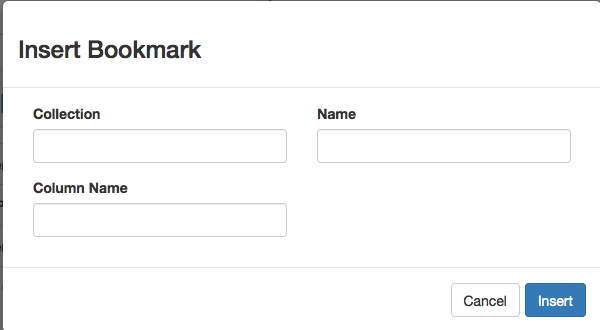
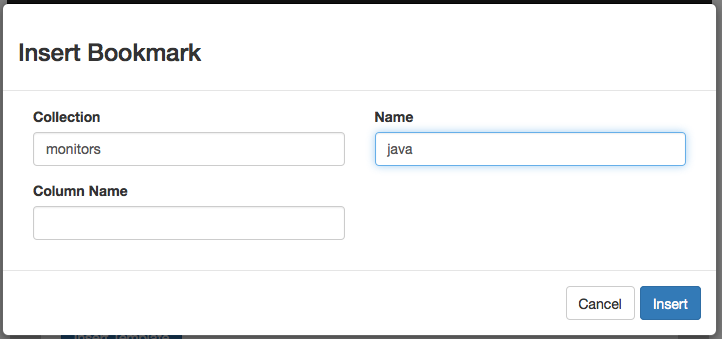
doc

diff --git a/idmu-editor/src/main/node/docs/howto.md b/idmu-editor/src/main/node/docs/howto.md
@@ -108,6 +108,25 @@ To change the properties of a configured template directive
 <a name="insert_sub_template"/>
 ## Insert Sub-Template
 
+- To insert a sub-template you must have configured the template
+with an 'Insert' directive.
+
+- If there is an 'Insert' directive a 'Insert Template' button will appear below
+the 'Content' area.
+
+- By clicking on the 'Insert Template' button a dialog is presented to capture the
+collection, template name, and column name (optional) for the sub-template.
+
+- When the 'Insert' button is pressed a new bookmark is inserted into the content and
+the template screen is refreshed with the new bookmark expanded as a sub-template.
+
+![Insert Button](https://github.com/FlatBallFlyer/IBM-Data-Merge-Utility/blob/post-integ/idmu-editor/src/main/node/docs/screen-shots/insert-template-button.png)
+
+
+![Insert Dialog](https://github.com/FlatBallFlyer/IBM-Data-Merge-Utility/blob/post-integ/idmu-editor/src/main/node/docs/screen-shots/bookmark-inserter.png)
+
+
+
 <a name="add_content"/>
 ## Add Template Content
 
